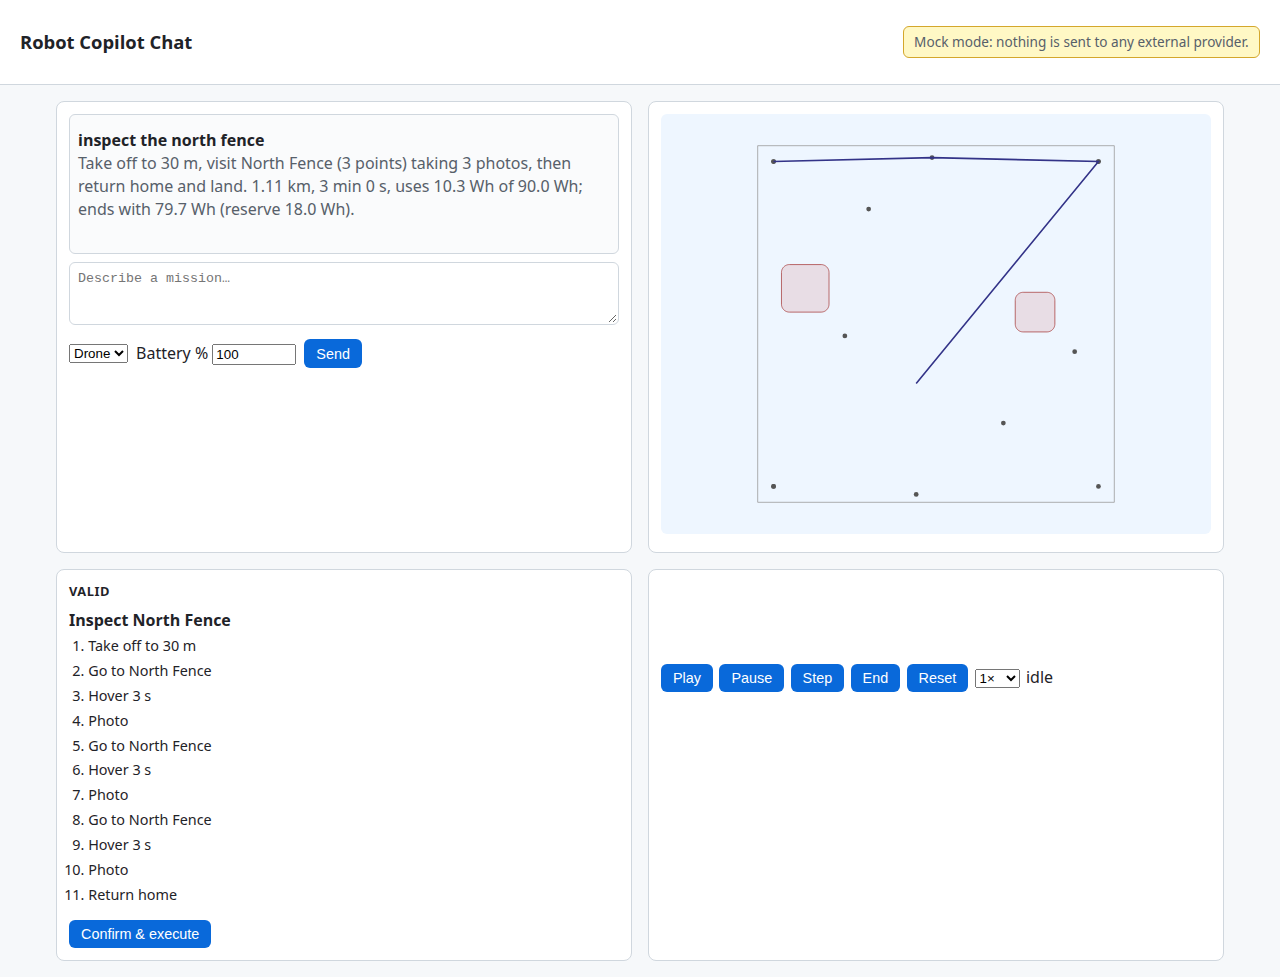
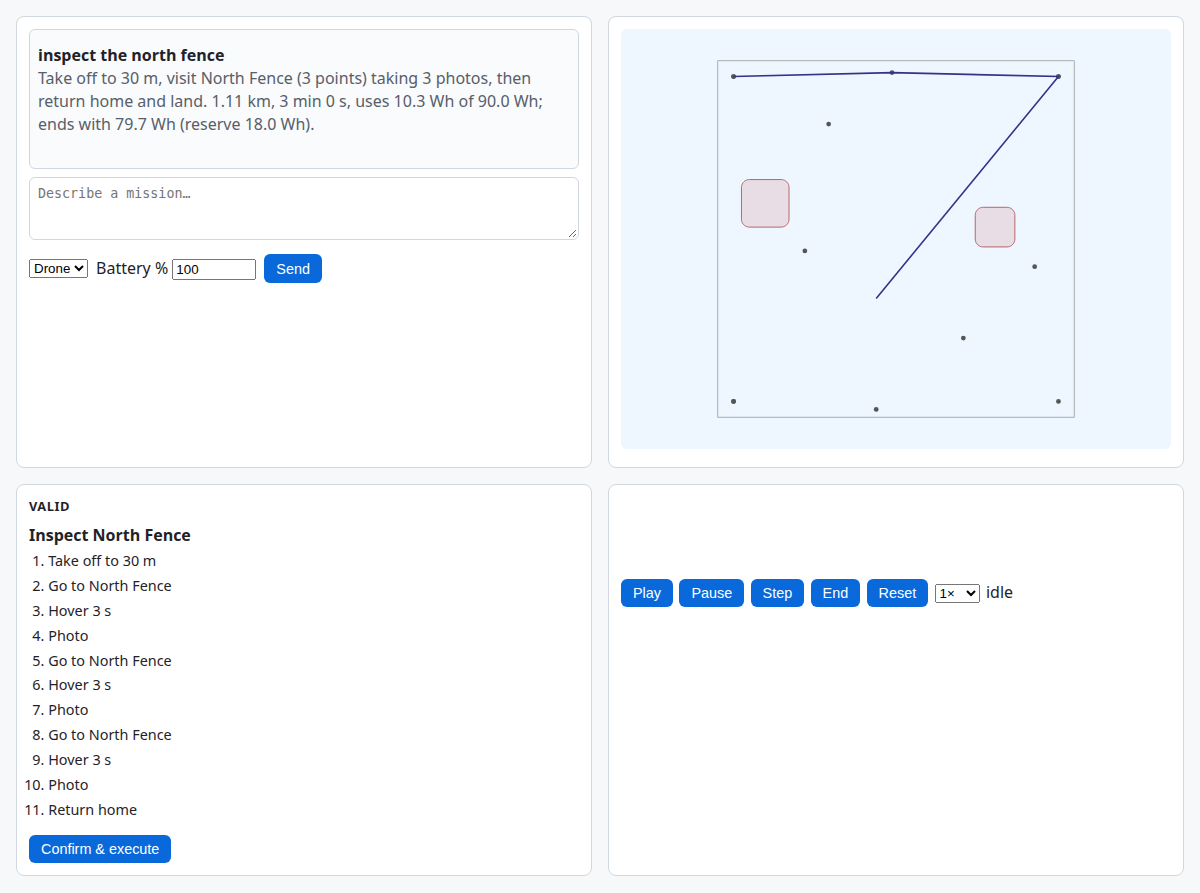
Harden PR #2 guards: deprecations, e2e notice, keep-out hits
Treat DeprecationWarning as test errors globally; assert httpx data= deprecates.
E2e covers adjustment-notice and confirm-summary; restore tutorial duplicate-sentence test.
List every keep-out per segment; dedupe once per zone name in resolve; refresh screenshots.

diff --git a/tests/repo/test_tutorial_walkthrough.py b/tests/repo/test_tutorial_walkthrough.py
@@ -21,6 +21,7 @@ SECTIONS = [
 _SEGMENT = re.compile(r"<!-- segment: (\S+) ([\w.]+) -->\s*```python\n(.*?)```", re.DOTALL)
 _PY_FENCE = re.compile(r"```python\n(.*?)```", re.DOTALL)
 _BASH_FENCE = re.compile(r"## Try it\s*(.*?)\s*### Expected", re.DOTALL)
+_SENTENCE = re.compile(r"[.!?]\s+")
 
 
 def _prose_words(text: str) -> int:
@@ -37,6 +38,34 @@ def test_tutorial_files():
             assert sec in text, f"{matches[0].name} missing {sec}"
         prose = _prose_words(text)
         assert 60 <= prose <= 220, f"{matches[0].name} prose word count {prose}"
+
+
+def _prose_text(text: str) -> str:
+    return re.sub(r"```.*?```", "", text, flags=re.DOTALL)
+
+
+def _sentences_8plus(text: str) -> list[str]:
+    raw = _prose_text(text)
+    raw = re.sub(r"<!--.*?-->", "", raw, flags=re.DOTALL)
+    parts = _SENTENCE.split(raw)
+    out: list[str] = []
+    for part in parts:
+        words = re.findall(r"\w+", part)
+        if len(words) >= 8:
+            norm = " ".join(w.lower() for w in words)
+            out.append(norm)
+    return out
+
+
+def test_tutorial_no_duplicate_sentences_across_chapters():
+    seen: dict[str, str] = {}
+    for path in sorted(TUTORIAL.glob("*.md")):
+        for sentence in _sentences_8plus(path.read_text()):
+            if sentence in seen:
+                raise AssertionError(
+                    f"duplicate sentence in {path.name} and {seen[sentence]}: {sentence[:80]}..."
+                )
+            seen[sentence] = path.name
 
 
 def test_tutorial_no_robotic_goal_filler():

diff --git a/src/robot_copilot/validator/spatial.py b/src/robot_copilot/validator/spatial.py
@@ -14,16 +14,29 @@ def segment_outside_fence(geometry: SiteGeometry, start: XYZ, end: XYZ) -> bool:
     return not geometry.fence_inset.covers(line)
 
 
-def segment_hits_keepout(geometry: SiteGeometry, start: XYZ, end: XYZ) -> str | None:
-    if start.x_m == end.x_m and start.y_m == end.y_m:
-        pt = Point(start.x_m, start.y_m)
-        geom = pt
-    else:
-        geom = LineString([(start.x_m, start.y_m), (end.x_m, end.y_m)])
+def _segment_geom(start: XYZ, end: XYZ):
+    if start.x_m == end.x_m and start.y_m == end.y_m and start.alt_m == end.alt_m:
+        return Point(start.x_m, start.y_m)
+    return LineString([(start.x_m, start.y_m), (end.x_m, end.y_m)])
+
+
+def segment_keepouts_hit(geometry: SiteGeometry, start: XYZ, end: XYZ) -> list[str]:
+    """Return every keep-out name whose buffered polygon intersects the segment.
+
+    Keep-out margins from site TOML are applied when SiteGeometry is built.
+    """
+    geom = _segment_geom(start, end)
+    hits: list[str] = []
     for name, poly in geometry.keep_outs:
-        if poly.intersects(geom):
-            return name
-    return None
+        if not poly.intersects(geom):
+            continue
+        hits.append(name)
+    return hits
+
+
+def segment_hits_keepout(geometry: SiteGeometry, start: XYZ, end: XYZ) -> str | None:
+    hits = segment_keepouts_hit(geometry, start, end)
+    return hits[0] if hits else None
 
 
 def rth_segment_blocked(

diff --git a/tests/unit/test_spatial.py b/tests/unit/test_spatial.py
@@ -1,8 +1,35 @@
 from __future__ import annotations
 
 from robot_copilot.validator import validate
-from robot_copilot.validator.issues import IssueCode
+from robot_copilot.validator.issues import IssueCode, XYZ
+from robot_copilot.validator.spatial import segment_keepouts_hit
 from tests.helpers import plan_from_json
+
+
+def test_segment_keepouts_hit_lists_every_zone_on_one_leg(ctx):
+    start = XYZ(x_m=-140.0, y_m=120.0, alt_m=30.0)
+    end = XYZ(x_m=150.0, y_m=90.0, alt_m=30.0)
+    hits = segment_keepouts_hit(ctx.geometry, start, end)
+    assert hits == ["Substation", "Beehives"]
+
+
+def test_crossing_two_keepouts_yields_two_issue_codes(ctx):
+    p = plan_from_json(
+        {
+            "vehicle": "drone",
+            "summary": "s",
+            "actions": [
+                {"type": "takeoff", "altitude_m": 30},
+                {"type": "goto", "xy": {"x_m": -140.0, "y_m": 120.0}, "altitude_m": 30},
+                {"type": "goto", "xy": {"x_m": 150.0, "y_m": 90.0}, "altitude_m": 30},
+                {"type": "return_home"},
+            ],
+        }
+    )
+    rep = validate(p, ctx)
+    ko_codes = [i for i in rep.issues if i.code == IssueCode.ENTERS_KEEP_OUT]
+    zones = {i.params[0][1] for i in ko_codes if i.params}
+    assert zones == {"Substation", "Beehives"}
 
 
 def test_substation_keepout_dedupes_keepout_code(ctx):

diff --git a/tests/e2e/test_patrol_repair_notice.py b/tests/e2e/test_patrol_repair_notice.py
@@ -1,0 +1,30 @@
+from __future__ import annotations
+
+import pytest
+from playwright.sync_api import expect
+
+pytestmark = pytest.mark.e2e
+
+
+def test_patrol_repair_shows_adjustment_notice(page, base_url):
+    page.goto(base_url)
+    page.locator('[data-testid="battery-input"]').fill("40")
+    page.locator('[data-testid="chat-input"]').fill("patrol the perimeter four times")
+    page.locator('[data-testid="send-btn"]').click()
+    status = page.locator('[data-testid="mission-status"]')
+    expect(status).to_have_text("invalid", timeout=15_000)
+
+    page.locator('[data-testid="repair-btn"]').click()
+    expect(status).to_have_text("invalid", timeout=15_000)
+    notice = page.locator('[data-testid="adjustment-notice"]')
+    expect(notice).to_be_visible()
+    expect(notice).to_contain_text("shortened", ignore_case=True)
+
+    page.locator('[data-testid="repair-btn"]').click()
+    expect(status).to_have_text("valid", timeout=15_000)
+    expect(page.locator('[data-testid="plan-summary"]')).to_contain_text("1 of 4 loops")
+
+    page.locator('[data-testid="confirm-btn"]').click()
+    summary = page.locator('[data-testid="confirm-summary"]')
+    expect(summary).to_contain_text("shortened", ignore_case=True)
+    expect(summary).to_contain_text("Wh", timeout=5_000)

diff --git a/scripts/capture_readme_screenshots.py b/scripts/capture_readme_screenshots.py
@@ -26,7 +26,7 @@ def main() -> None:
             "() => document.querySelector('[data-testid=\"mission-status\"]')"
             "?.textContent === 'valid'"
         )
-        page.screenshot(path=str(OUT / "01-plan.png"), full_page=True)
+        page.locator("main").screenshot(path=str(OUT / "01-plan.png"))
 
         page.fill("#battery-input", "40")
         page.fill("#chat-input", "patrol the perimeter four times")
@@ -46,7 +46,8 @@ def main() -> None:
             "() => document.querySelector('[data-testid=\"plan-summary\"]')"
             "?.textContent.includes('1 of 4 loops')"
         )
-        page.screenshot(path=str(OUT / "02-repair.png"), full_page=True)
+        page.locator("#messages").evaluate("el => { el.scrollTop = el.scrollHeight; }")
+        page.locator("main").screenshot(path=str(OUT / "02-repair.png"))
 
         page.click("#confirm-btn")
         page.wait_for_selector("#confirm-dialog")
@@ -57,7 +58,7 @@ def main() -> None:
         )
         page.click("#end-btn")
         page.wait_for_selector('[data-testid="playback-status"]')
-        page.screenshot(path=str(OUT / "03-executing.png"), full_page=True)
+        page.locator("main").screenshot(path=str(OUT / "03-executing.png"))
         browser.close()
 
 

diff --git a/src/robot_copilot/validator/resolve.py b/src/robot_copilot/validator/resolve.py
@@ -24,7 +24,7 @@ from robot_copilot.validator.energy import (
 from robot_copilot.validator.issues import XYZ, Leg, PlanStats, ResolvedPlan, ValidationIssue
 from robot_copilot.validator.spatial import (
     rth_segment_blocked,
-    segment_hits_keepout,
+    segment_keepouts_hit,
     segment_outside_fence,
 )
 from robot_copilot.validator.structure import _resolve_target
@@ -254,8 +254,9 @@ def check_spatial_and_energy(
                     hint=hint,
                 )
             )
-        ko = segment_hits_keepout(ctx.geometry, leg.start, leg.end)
-        if ko and ko not in reported_keep_outs:
+        for ko in segment_keepouts_hit(ctx.geometry, leg.start, leg.end):
+            if ko in reported_keep_outs:
+                continue
             reported_keep_outs.add(ko)
             msg, hint = explain_issue(IssueCode.ENTERS_KEEP_OUT, leg.action_index, {"keep_out": ko})
             issues.append(

diff --git a/tests/api/test_deprecation_guard.py b/tests/api/test_deprecation_guard.py
@@ -1,0 +1,27 @@
+from __future__ import annotations
+
+import warnings
+
+import pytest
+from fastapi.testclient import TestClient
+
+from robot_copilot.main import create_app
+from robot_copilot.settings import load_settings
+from tests.helpers import default_settings_env
+
+
+@pytest.fixture
+def bare_client() -> TestClient:
+    settings = load_settings(env=default_settings_env(), dotenv_enabled=False)
+    return TestClient(create_app(settings), base_url="http://localhost")
+
+
+def test_httpx_data_body_emits_deprecation_warning(bare_client: TestClient) -> None:
+    with pytest.raises(DeprecationWarning, match="content="):
+        with warnings.catch_warnings():
+            warnings.simplefilter("error", DeprecationWarning)
+            bare_client.post(
+                "/api/chat",
+                data="x",
+                headers={"Content-Type": "text/plain"},
+            )

diff --git a/tests/api/test_request_guard.py b/tests/api/test_request_guard.py
@@ -1,5 +1,7 @@
 from __future__ import annotations
 
+import warnings
+
 import pytest
 from fastapi.testclient import TestClient
 
@@ -34,11 +36,13 @@ def test_bad_origin(guarded_client: TestClient):
 
 
 def test_non_json_content_type(guarded_client: TestClient):
-    r = guarded_client.post(
-        "/api/chat",
-        content=b"x",
-        headers={"Content-Type": "text/plain"},
-    )
+    with warnings.catch_warnings():
+        warnings.simplefilter("error", DeprecationWarning)
+        r = guarded_client.post(
+            "/api/chat",
+            content=b"x",
+            headers={"Content-Type": "text/plain"},
+        )
     assert r.status_code == 415
     assert guarded_client.spy.calls == 0  # type: ignore[attr-defined]
 

diff --git a/docs/tutorial/06-validator-spatial.md b/docs/tutorial/06-validator-spatial.md
@@ -12,24 +12,26 @@ Spatial checks expand named places into segments, then test geofence margins and
 
 ## Walkthrough
 
-1. segment_hits_keepout wraps shapely intersections, returning true when a movement segment intersects buffered keep-out polygons.
+1. segment_keepouts_hit returns every keep-out zone a leg crosses, not only the first polygon in site order.
 
-<!-- segment: src/robot_copilot/validator/spatial.py segment_hits_keepout -->
+<!-- segment: src/robot_copilot/validator/spatial.py segment_keepouts_hit -->
 
 ```python
-def segment_hits_keepout(geometry: SiteGeometry, start: XYZ, end: XYZ) -> str | None:
-    if start.x_m == end.x_m and start.y_m == end.y_m:
-        pt = Point(start.x_m, start.y_m)
-        geom = pt
-    else:
-        geom = LineString([(start.x_m, start.y_m), (end.x_m, end.y_m)])
+def segment_keepouts_hit(geometry: SiteGeometry, start: XYZ, end: XYZ) -> list[str]:
+    """Return every keep-out name whose buffered polygon intersects the segment.
+
+    Keep-out margins from site TOML are applied when SiteGeometry is built.
+    """
+    geom = _segment_geom(start, end)
+    hits: list[str] = []
     for name, poly in geometry.keep_outs:
-        if poly.intersects(geom):
-            return name
-    return None
+        if not poly.intersects(geom):
+            continue
+        hits.append(name)
+    return hits
 ```
 
-Validators call this helper for each leg after places resolve to concrete coordinates.
+Resolve reports at most one enters_keep_out issue per zone name across the whole mission.
 
 2. rth_segment_blocked models return-home straight lines, catching plans that would exit through forbidden airspace during RTH.
 
